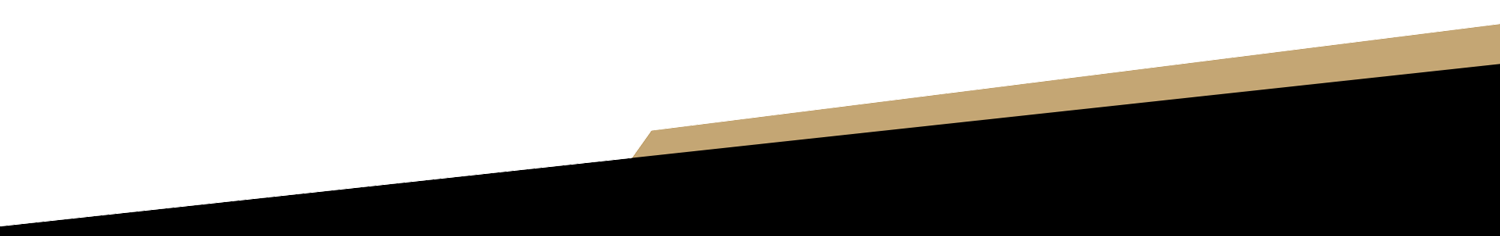
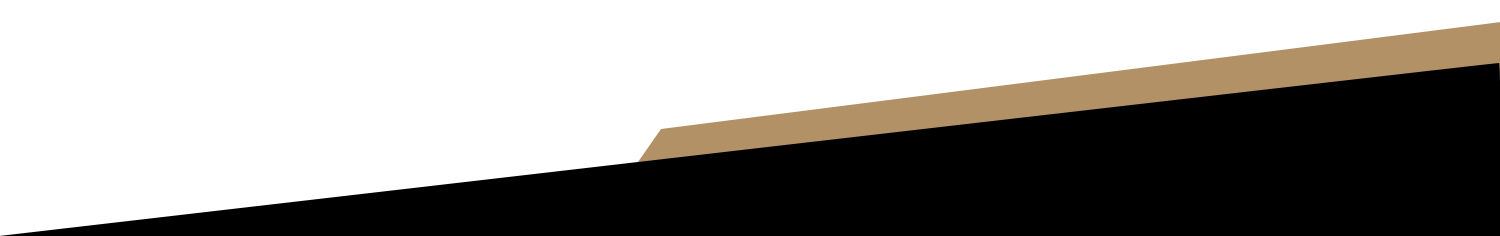
alteração nas imagens de corte diagonal

diff --git a/style.css b/style.css
@@ -1,2 +1,2 @@
-body{background-color:#000;color:#FFF;font-family:Segoe, "Segoe UI", "DejaVu Sans", "Trebuchet MS", Verdana, "sans-serif"}body #diagonal1{position:relative;margin-top:-24rem;background-image:url(assets/images/divisao1.png);background-repeat:no-repeat;background-size:100% auto;z-index:2000008;width:100%;min-height:25rem;background-position:bottom}body #diagonal2{position:relative;margin-top:-24rem;background-image:url(assets/images/divisao2.png);background-repeat:no-repeat;background-size:100% auto;z-index:5000000000;width:100%;min-height:25rem;background-position:bottom}body #diagonal3{position:relative;margin-top:-24rem;background-image:url(assets/images/divisao1.png);background-repeat:no-repeat;background-size:100% auto;z-index:5000000000;width:100%;min-height:25rem;background-position:bottom}body a{text-decoration:none}body h2{font-size:280%;font-weight:100}body h2 .small{color:#C4A674;font-family:Cambria, "Hoefler Text", "Liberation Serif", Times, "Times New Roman", "serif";font-size:70%}body header{height:130px;border-bottom:5px solid #C4A674}body header .container{display:grid;width:1440px;margin:auto;grid-template-columns:25% 70% 5%}body header .container #brand{overflow:hidden}body header .container #brand img{width:70%;height:auto;margin:auto}body header .container #brand h1{margin-left:-2000px}body header .container #main_menu ul{margin:0;text-align:center;padding:3rem}body header .container #main_menu ul li{list-style:none;float:left;margin-left:3rem}body header .container #main_menu ul li a{color:#fff;text-decoration:none;font-size:120%}body header .container #main_menu ul li a:hover{color:#C4A674;text-decoration:underline}body header .container #main_menu ul li a:hover u{border-bottom:5px solid #C4A674}body header .container #language{padding:3rem;margin:0 auto}body #slideshow{z-index:1}body #about .container{display:grid;margin:auto;width:1440px;grid-template-columns:40% 40%;padding:3rem 0}body #about .container #taca{margin-top:-27rem;position:relative;z-index:300000000000}body #about .container .calltoaction{background-color:#C4A674;padding:1rem 2rem;float:right;margin:1rem 0}body #about .container .calltoaction a{color:#fff}body #wherebuy .container{display:grid;padding:2rem 15rem;grid-template-columns:50% 50%}body #products{background-color:#E4E4E4;color:#333}body #products .container{margin:auto;width:1440px;padding:1rem 9rem;padding:3rem 0}body #products .container .calltoaction{background-color:#000;padding:1rem;color:#fff;margin:2rem auto;display:table}body #products .container .calltoaction a{color:#fff}body #products .container .category_products{display:grid;grid-template-columns:25% 25% 25% 25%}body #products .container .category_products figure{margin:1rem 1.5rem}body #products .container .category_products figure figcaption{background-color:#C4A674;padding:1rem;text-transform:uppercase;font-size:130%;text-decoration:none;color:#000;text-align:center}body #products .container .category_products figure figcaption a{color:#000}body #contactus{background-color:#616161}body #contactus .container{width:1440px;display:grid;grid-template-columns:50% 50%;margin:auto;padding:3rem 0}body #contactus .container li{list-style:none;margin-bottom:2rem}body #contactus .container li input{background-color:#616161;border-bottom:3px solid #C4A674;border-top:0;border-left:0;border-right:0;padding:0.8rem;width:80%;font-size:110%;color:#fff}body #contactus .container li input ::-webkit-input-placeholder{color:#FFF}body #contactus .container li input ::-moz-placeholder{color:#FFF}body #contactus .container li input :-ms-input-placeholder{color:#FFF}body #contactus .container li input :-moz-placeholder{color:#FFF}body #contactus .container li textarea{border-top:3px solid #C4A674;border-left:0;border-right:0;background-color:#504D4D;color:#fff;width:80%;height:380px}body #contactus .container li .enviar{background-color:#C4A674;color:#000}
+body{background-color:#000;color:#FFF;font-family:Segoe, "Segoe UI", "DejaVu Sans", "Trebuchet MS", Verdana, "sans-serif"}body #diagonal1{position:relative;margin-top:-24rem;background-image:url(assets/images/divisao1.png);background-repeat:no-repeat;background-size:100% auto;z-index:2000008;width:100%;min-height:25rem;background-position:bottom}body #diagonal2{position:relative;margin-top:-24rem;background-image:url(assets/images/divisao2.png);background-repeat:no-repeat;background-size:100% auto;z-index:5000000000;width:100%;min-height:25rem;background-position:bottom}body #diagonal3{position:relative;margin-top:-24rem;background-image:url(assets/images/divisao1.png);background-repeat:no-repeat;background-size:100% auto;z-index:5000000000;width:100%;min-height:25rem;background-position:bottom}body a{text-decoration:none}body h2{font-size:280%;font-weight:100}body h2 .small{color:#C4A674;font-family:Cambria, "Hoefler Text", "Liberation Serif", Times, "Times New Roman", "serif";font-size:70%}body header{height:130px;border-bottom:5px solid #C4A674}body header .container{display:grid;width:1440px;margin:auto;grid-template-columns:25% 70% 5%}body header .container #brand{overflow:hidden}body header .container #brand img{width:70%;height:auto;margin:auto}body header .container #brand h1{margin-left:-2000px}body header .container #main_menu ul{margin:0;text-align:center;padding:3rem}body header .container #main_menu ul li{list-style:none;float:left;margin-left:3rem}body header .container #main_menu ul li a{color:#fff;text-decoration:none;font-size:120%}body header .container #main_menu ul li a:hover{color:#C4A674;text-decoration:underline}body header .container #main_menu ul li a:hover u{border-bottom:5px solid #C4A674}body header .container #language{padding:3rem;margin:0 auto}body #slideshow{z-index:1}body #about .container{display:grid;margin:auto;width:1440px;grid-template-columns:40% 40%;padding:3rem 0}body #about .container #taca{margin-top:-27rem;position:relative;z-index:300000000000}body #about .container .calltoaction{background-color:#C4A674;padding:1rem 2rem;float:right;margin:1rem 0}body #about .container .calltoaction a{color:#fff}body #wherebuy .container{display:grid;padding:2rem 15rem;grid-template-columns:50% 50%}body #wherebuy .container .picture{position:relative;margin-top:-8rem}body #products{background-color:#E4E4E4;color:#333}body #products .container{margin:auto;width:1440px;padding:1rem 9rem;padding:3rem 0}body #products .container .calltoaction{background-color:#000;padding:1rem;color:#fff;margin:2rem auto;display:table}body #products .container .calltoaction a{color:#fff}body #products .container .category_products{display:grid;grid-template-columns:25% 25% 25% 25%}body #products .container .category_products figure{margin:1rem 1.5rem}body #products .container .category_products figure figcaption{background-color:#C4A674;padding:1rem;text-transform:uppercase;font-size:130%;text-decoration:none;color:#000;text-align:center}body #products .container .category_products figure figcaption a{color:#000}body #contactus{background-color:#616161}body #contactus .container{width:1440px;display:grid;grid-template-columns:50% 50%;margin:auto;padding:3rem 0}body #contactus .container li{list-style:none;margin-bottom:2rem}body #contactus .container li input{background-color:#616161;border-bottom:3px solid #C4A674;border-top:0;border-left:0;border-right:0;padding:0.8rem;width:80%;font-size:110%;color:#fff}body #contactus .container li input ::-webkit-input-placeholder{color:#FFF}body #contactus .container li input ::-moz-placeholder{color:#FFF}body #contactus .container li input :-ms-input-placeholder{color:#FFF}body #contactus .container li input :-moz-placeholder{color:#FFF}body #contactus .container li textarea{border-top:3px solid #C4A674;border-left:0;border-right:0;background-color:#504D4D;color:#fff;width:80%;height:380px}body #contactus .container li .enviar{background-color:#C4A674;color:#000}
 /*# sourceMappingURL=style.css.map */

diff --git a/index.html b/index.html
@@ -181,7 +181,7 @@ cristais poloneses lapidados manualmente</p>
 			<li><input name="telefone" type="tel" placeholder="Digite aqui o seu telefone"></li>		
 			<li><input name="email" type="email" placeholder="Digite aqui o seu e-mail"></li>
 			<li><textarea>Digite aqui a sia mensagem</textarea></li>	
-			<li><input type="submit" title="Enviar" class="enviar"></li>	
+			<li><input type="submit" class="enviar" title="Enviar" value="Enviar"></li>	
 		</ul>
 	</form>
 		</div>

diff --git a/main.css b/main.css
@@ -101,6 +101,9 @@ body {
     display: grid;
     padding: 2rem 15rem;
     grid-template-columns: 50% 50%; }
+    body #wherebuy .container .picture {
+      position: relative;
+      margin-top: -8rem; }
   body #products {
     background-color: #E4E4E4;
     color: #333; }

diff --git a/main.scss b/main.scss
@@ -155,6 +155,11 @@ body{
 			display: grid;
 			padding: 2rem 15rem;
 			grid-template-columns: 50% 50%;
+			
+			.picture{
+				position:relative;
+				margin-top: -8rem;
+			}
 		}
 		
 	}
